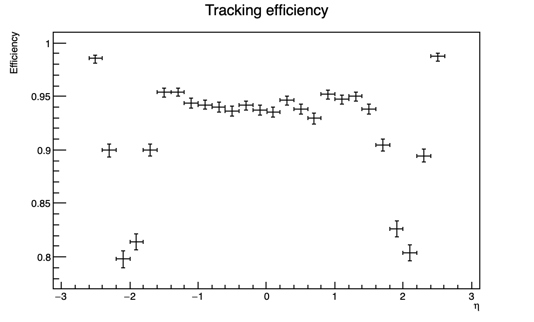
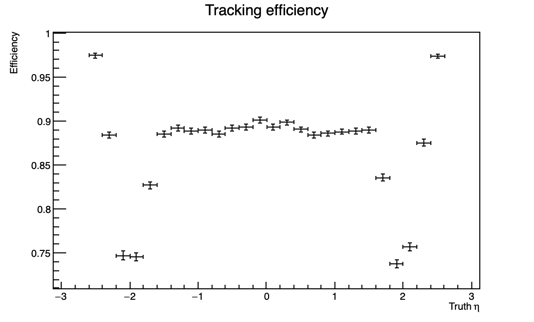
Update seeding how-to

diff --git a/docs/howto/run_seeding.rst b/docs/howto/run_seeding.rst
@@ -43,15 +43,17 @@ You can run the seeding example with a comand like this:
 
    $ <build>/bin/ActsExampleSeedingGeneric \
 	--input-dir=data/sim_generic/ttbar_pu200 \
-	--output-dir=output_generic_ttbar_pu200 
+	--output-dir=output_generic_ttbar_pu200 \
+        --bf-constant-tesla=0:0:2
 
 After running this example, you should see something like this:
 
 .. code-block::
    
-   SeedingPerfo  INFO   Efficiency (nMatchedParticles / nAllParticles) = 0.917263
-   SeedingPerfo  INFO   Fake rate (nUnMatchedSeeds / nAllSeeds) =0.317763
-   SeedingPerfo  INFO   Duplication rate (nDuplicatedMatchedParticles / nMatchedParticles) =0.998711
+   SeedingPerfo   INFO      Efficiency (nMatchedParticles / nAllParticles) = 0.865521
+   SeedingPerfo   INFO      Fake rate (nUnMatchedSeeds / nAllSeeds) = 0.332444
+   SeedingPerfo   INFO      Duplication rate (nDuplicatedMatchedParticles / nMatchedParticles) = 0.997516
+   SeedingPerfo   INFO      Average number of duplicated seeds ((nMatchedSeeds - nMatchedParticles) / nMatchedParticles) = 7.8082
 
 This output shows the efficiency, fake rate, and duplicate rate for the selected particles.
 The example also generates output root files in the output directory.
@@ -75,7 +77,8 @@ To run the seeding example with the OpenData detector,
    $ <build>/bin/ActsExampleSeedingDD4hep \
     --dd4hep-input ../acts/Examples/Detectors/DD4hepDetector/compact/OpenDataDetector/OpenDataDetector.xml \
     --input-dir=data/sim_dd4hep/ttbar_pu200 \
-    --output-dir=output_dd4_ttbar_pu200
+    --output-dir=output_dd4_ttbar_pu200 \
+    --bf-constant-tesla=0:0:2
 
 The input dataset needs to be simulated with the same detector in advance.
 
